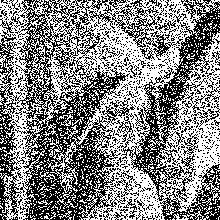
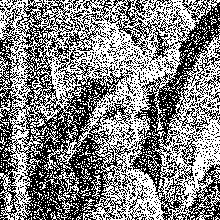
[Changelog]
Edit - Correção no Floyd Steinberg

diff --git a/dithering.py b/dithering.py
@@ -87,15 +87,17 @@ def DitheringFloydSteinberg(img):
 
 	_returnImg = np.zeros((rows, cols), np.uint8)
 
+	copy = img.copy()
+
 	for i in range(rows - 1):
 		for j in range(cols - 1):
-			if(img[i, j] >= threshold):
+			if(copy[i, j] >= threshold):
 				_returnImg[i][j] = 255
 
-			erro = img[i, j] - _returnImg[i, j]
-			_returnImg[i + 1, j] = _returnImg[i + 1, j] + erro * (7 / 16)
-			_returnImg[i, j + 1] = _returnImg[i, j + 1] + erro * (5 / 16)
-			_returnImg[i + 1, j + 1] = _returnImg[i + 1, j + 1] + erro * (1 / 16)
-			_returnImg[i - 1, j + 1] = _returnImg[i - 1, j + 1] + erro * (3 / 16)
+			erro = int(copy[i, j]) - int(_returnImg[i, j])
+			copy[i + 1, j] = copy[i + 1, j] + erro * (7 / 16)
+			copy[i, j + 1] = copy[i, j + 1] + erro * (5 / 16)
+			copy[i + 1, j + 1] = copy[i + 1, j + 1] + erro * (1 / 16)
+			copy[i - 1, j + 1] = copy[i - 1, j + 1] + erro * (3 / 16)
 
 	return _returnImg

diff --git a/main.py b/main.py
@@ -125,8 +125,8 @@ def main():
 	
 	#runOperations()
 	#runColorModels()
-	#runDithering()
-	runEnhancement()
+	runDithering()
+	#runEnhancement()
 
 if __name__ == "__main__":
 	main()
